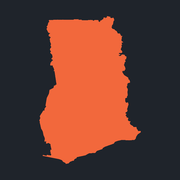
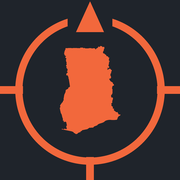
v

diff --git a/web/index.html b/web/index.html
@@ -5125,6 +5125,11 @@ function renderClipBadges() {
    permanent one; the badges appear on whichever panels are open. */
 function renderClip() {
   const label = clipLabel();
+  // Rasters already on the map were cut server-side to the previous boundary.
+  if (typeof redrawEeLayers === "function" && label !== renderClip.lastLabel) {
+    if (renderClip.lastLabel !== undefined) redrawEeLayers();
+    renderClip.lastLabel = label;
+  }
   const sb = document.getElementById("sb-clip");
   if (sb) sb.textContent = label;
   const chip = document.getElementById("clip-chip");
@@ -6650,9 +6655,16 @@ async function renderToolDetail() {
           ${layers.map((l) => `<option value="${escapeHtml(l.id)}">${escapeHtml(l.label)}${
             l.count ? ` — ${l.count.toLocaleString()} features` : ""}</option>`).join("")}
         </select>${hint}
-        ${layers.length ? "" : `<p class="tb-hint" style="color:var(--clay)">
-          Nothing is drawn yet. Run a query, fetch a live layer, or turn on a
-          boundary layer first.</p>`}</div>`;
+        ${layers.length ? "" : `<p class="tb-hint" style="color:var(--clay)">${
+          [...userLayers.values()].some((e) => e.kind === "raster")
+            ? `These tools work on features, and the only layer drawn is a
+               raster — a picture rendered on Google's machines, with no
+               geometry in this browser to cut or measure. Set the clip from
+               Processing → Clip results to… and the raster is cut where it is
+               made; <em>Summarise</em> in the Data panel turns it into rows
+               these tools can take.`
+            : `Nothing is drawn yet. Run a query, fetch a live layer, or turn on
+               a boundary layer first.`}</p>`}</div>`;
     }
 
     if (spec.kind === "boundary") {
@@ -7297,7 +7309,8 @@ const eeState = {
   ready: false,       // the library is loaded and initialised
   catalog: [],        // the index written at build time
   selected: null,
-  layers: new Map()   // dataset id -> map source id
+  layers: new Map(),  // dataset id -> map source id
+  drawn: new Map()    // dataset id -> { dataset, form, clip } it was drawn with
 };
 
 function eeCredentials() {
@@ -8123,14 +8136,14 @@ async function diagnoseEmptyCollection(d, form) {
 
 /* ── Drawing it ────────────────────────────────────────────────────────── */
 
-async function addEeLayer(d) {
+async function addEeLayer(d, replayForm) {
   if (!eeState.ready) {
     eeDetailStatus("Connect to Earth Engine first — the panel at the top of this tab.",
                    "error");
     return;
   }
 
-  const form = readEeForm(d);
+  const form = replayForm || readEeForm(d);
   eeDetailStatus("Asking Earth Engine for tiles…");
 
   try {
@@ -8182,6 +8195,9 @@ async function addEeLayer(d) {
                    paint: { "raster-opacity": 0.85 } }, firstVector);
 
     eeState.layers.set(d.id, sourceId);
+    // What it was drawn from, so changing the clip can redraw it without that
+    // dataset's panel still being open.
+    eeState.drawn.set(d.id, { dataset: d, form, clip: clipLabel() });
     registerUserLayer({
       id: sourceId, label: d.title, kind: "raster",
       layerIds: [sourceId], sourceId,
@@ -8226,6 +8242,28 @@ function removeEeLayer(id) {
   if (map.getLayer(sourceId)) map.removeLayer(sourceId);
   if (map.getSource(sourceId)) map.removeSource(sourceId);
   eeState.layers.delete(id);
+  eeState.drawn.delete(id);
+}
+
+/* An Earth Engine raster is cut to the clip on Google's machines at the moment
+   it is drawn, so a raster already on the map keeps the boundary it was drawn
+   with. That made the clip a half-truth again in the one place it matters
+   most: the status bar saying Ashanti above a picture of the whole country.
+
+   Changing the clip therefore redraws them, from the form each was drawn with
+   rather than from whatever the panel happens to be showing now. */
+async function redrawEeLayers() {
+  const drawn = [...eeState.drawn.values()];
+  if (!drawn.length || !eeState.ready) return;
+
+  window.ghLog?.("info",
+    `Clip changed to ${clipLabel()} — redrawing ${drawn.length} Earth Engine `
+    + `layer${drawn.length === 1 ? "" : "s"}`);
+
+  for (const { dataset, form } of drawn) {
+    try { await addEeLayer(dataset, form); }
+    catch (err) { window.ghLog?.("error", `${dataset.id}: ${err.message ?? err}`); }
+  }
 }
 
 /* ── Reducing it to a table ────────────────────────────────────────────── */

diff --git a/scripts/make_icons.py b/scripts/make_icons.py
@@ -1,9 +1,19 @@
 """Generate the site icons from the national boundary.
 
-The favicon is Ghana's actual outline, simplified from
+The mark is Ghana's actual outline, simplified from
 `data/reference/gha_admin0.geojson`, rather than a generic pin. It is derived
 from the same COD boundary the rest of the platform uses, so the mark and the
 data agree.
+
+Around it is a surveyor's reticle: a ring, a north mark at the top and ticks
+at east, south and west. That says what the country is doing there — this is a
+mapping tool, not a page about Ghana — and it is what survives at 16 px, where
+the outline alone is an orange smudge.
+
+The compass was tried *through* the outline first, which is the obvious reading
+of "a compass across the shape". It does not work: any ring or needle cut
+through a country that small takes the country apart, and what is left reads as
+a broken blob rather than as Ghana. The reticle around it keeps both.
 
 Outputs:
     docs/assets/favicon.svg        documentation favicon
@@ -108,18 +118,70 @@ def svg_path(points: list[tuple[float, float]]) -> str:
     return head + rest + "Z"
 
 
+def mark(size: float) -> dict:
+    """The mark as plain geometry, in one place.
+
+    The SVG and the PNG are drawn by different libraries from this one
+    description, so they cannot drift into two slightly different logos. Every
+    number is a fraction of the canvas, so the mark is the same at 16 px and at
+    180 px.
+    """
+    margin = size * 0.085                      # from the canvas edge to the ring
+    stroke = size * 0.040                      # the ring, and the ticks
+    radius = (size - margin * 2) / 2 - stroke / 2
+    north = size * 0.155                       # the north mark, tip to base
+    tick = size * 0.042                        # tick width
+    reach = margin * 1.5                       # ticks run from the edge to here
+    half = size / 2
+
+    return {
+        "ring": (half, half, radius, stroke),
+        # The ring is broken where the north mark sits, so the two read as one
+        # shape rather than a triangle resting on a line.
+        "gap": (half - north * 0.8, 0.0, north * 1.6, margin + stroke * 1.5),
+        "north": [(half, size * 0.008),
+                  (half - north / 2, margin + north * 0.60),
+                  (half + north / 2, margin + north * 0.60)],
+        "ticks": [(half - tick / 2, size - reach, tick, reach),     # south
+                  (0.0, half - tick / 2, reach, tick),              # west
+                  (size - reach, half - tick / 2, reach, tick)],    # east
+        "country": outline(size, padding=size * 0.255)[0],
+    }
+
+
 def write_svg(path: Path, size: int, fill: str, background: str | None,
               radius: float = 0) -> None:
-    points, _ = outline(size, padding=size * 0.09)
+    m = mark(size)
+    cx, cy, r, stroke = m["ring"]
+    gx, gy, gw, gh = m["gap"]
+    # The mask id has to be unique on a page, because these files get inlined.
+    mask_id = f"gap-{path.stem}"
+
     parts = [
         f'<svg xmlns="http://www.w3.org/2000/svg" viewBox="0 0 {size} {size}" '
-        f'width="{size}" height="{size}" role="img" aria-label="Ghana">'
+        f'width="{size}" height="{size}" role="img" '
+        f'aria-label="Ghana GeoStack">',
+        f'<mask id="{mask_id}">'
+        f'<rect width="{size}" height="{size}" fill="#fff"/>'
+        f'<rect x="{gx:.2f}" y="{gy:.2f}" width="{gw:.2f}" height="{gh:.2f}" fill="#000"/>'
+        f'</mask>',
     ]
     if background:
         parts.append(
             f'<rect width="{size}" height="{size}" rx="{radius}" fill="{background}"/>')
-    parts.append(f'<path d="{svg_path(points)}" fill="{fill}"/>')
-    parts.append("</svg>")
+
+    parts.append(f'<g fill="{fill}">')
+    parts.append(
+        f'<circle cx="{cx:.2f}" cy="{cy:.2f}" r="{r:.2f}" fill="none" '
+        f'stroke="{fill}" stroke-width="{stroke:.2f}" mask="url(#{mask_id})"/>')
+    parts.append('<path d="'
+                 + "".join(f'{"M" if i == 0 else "L"}{x:.2f} {y:.2f}'
+                           for i, (x, y) in enumerate(m["north"]))
+                 + 'Z"/>')
+    for x, y, w, h in m["ticks"]:
+        parts.append(f'<rect x="{x:.2f}" y="{y:.2f}" width="{w:.2f}" height="{h:.2f}"/>')
+    parts.append(f'<path d="{svg_path(m["country"])}"/>')
+    parts.append("</g></svg>")
 
     path.parent.mkdir(parents=True, exist_ok=True)
     path.write_text("".join(parts), encoding="utf-8")
@@ -133,14 +195,28 @@ def write_png(path: Path, size: int, fill: str, background: str | None) -> None:
         print("  Pillow not installed, skipping PNG icons")
         return
 
-    supersample = 4
+    # Eight times, not four: the ring and the ticks are thin, and at 16 px a
+    # coarser supersample turns them into grey mush.
+    supersample = 8
     canvas = size * supersample
-    points, _ = outline(canvas, padding=canvas * 0.09)
+    m = mark(canvas)
+    cx, cy, r, stroke = m["ring"]
+    clear = (0, 0, 0, 0)
 
-    image = Image.new("RGBA", (canvas, canvas), background or (0, 0, 0, 0))
-    ImageDraw.Draw(image).polygon(points, fill=fill)
+    image = Image.new("RGBA", (canvas, canvas), background or clear)
+    draw = ImageDraw.Draw(image)
+
+    draw.ellipse([cx - r - stroke / 2, cy - r - stroke / 2,
+                  cx + r + stroke / 2, cy + r + stroke / 2],
+                 outline=fill, width=round(stroke))
+    gx, gy, gw, gh = m["gap"]
+    draw.rectangle([gx, gy, gx + gw, gy + gh], fill=background or clear)
+    draw.polygon(m["north"], fill=fill)
+    for x, y, w, h in m["ticks"]:
+        draw.rectangle([x, y, x + w, y + h], fill=fill)
+    draw.polygon(m["country"], fill=fill)
+
     image = image.resize((size, size), Image.LANCZOS)
-
     path.parent.mkdir(parents=True, exist_ok=True)
     image.save(path)
     print(f"  {path.relative_to(ROOT)} ({path.stat().st_size} bytes)")

diff --git a/docs/layers-and-clipping.md b/docs/layers-and-clipping.md
@@ -64,7 +64,7 @@ made it a half-truth and the numbers beside it misleading.
 | Tools | The output is cut to the boundary before it is drawn |
 | Live OpenStreetMap | Fetched features outside it are dropped |
 | Query results | Rows whose geometry falls outside are not drawn, and the count says how many |
-| Earth Engine layers | The raster is clipped server-side, so one district is a hundredth of the work of the whole country |
+| Earth Engine layers | The raster is clipped server-side, so one district is a hundredth of the work of the whole country. Changing the clip redraws the rasters already on the map, from the form each was drawn with |
 | Earth Engine summaries | Only zones inside the clip are reduced, so the table holds the rows you asked for |
 | Ask | The agent can read the clip and set it, and is told to read it before interpreting any result |
 
@@ -80,3 +80,23 @@ it are cut from exactly the same shape.
 The tool reports what happened: how many features fell inside, how many were
 dropped, and which boundary was used. If nothing survives, it says so and
 suggests widening rather than drawing an empty layer.
+
+### The setting and the tool are for different things
+
+Both are called clipping and they are not interchangeable.
+
+The **Clip tool**, in the toolbox, cuts one layer that already exists and
+writes the result as a new layer. It works on features, so it takes vectors
+only: query results, live OpenStreetMap fetches, boundaries, the output of
+another tool.
+
+The **clip setting** governs what new work covers, and it is the one that
+reaches rasters. An Earth Engine layer is a picture rendered on Google's
+machines — there is no geometry in the browser to cut — so it is cut where it
+is made, before the tiles are drawn. That is also why it is worth setting: ten
+metre land cover for one district is a hundredth of the work of the same
+picture for Ghana.
+
+To get an Earth Engine raster into the toolbox, reduce it first. **Summarise**
+and **Land cover area by region** turn the picture into rows in the browser
+database, and rows drawn on the map are features like any other.
